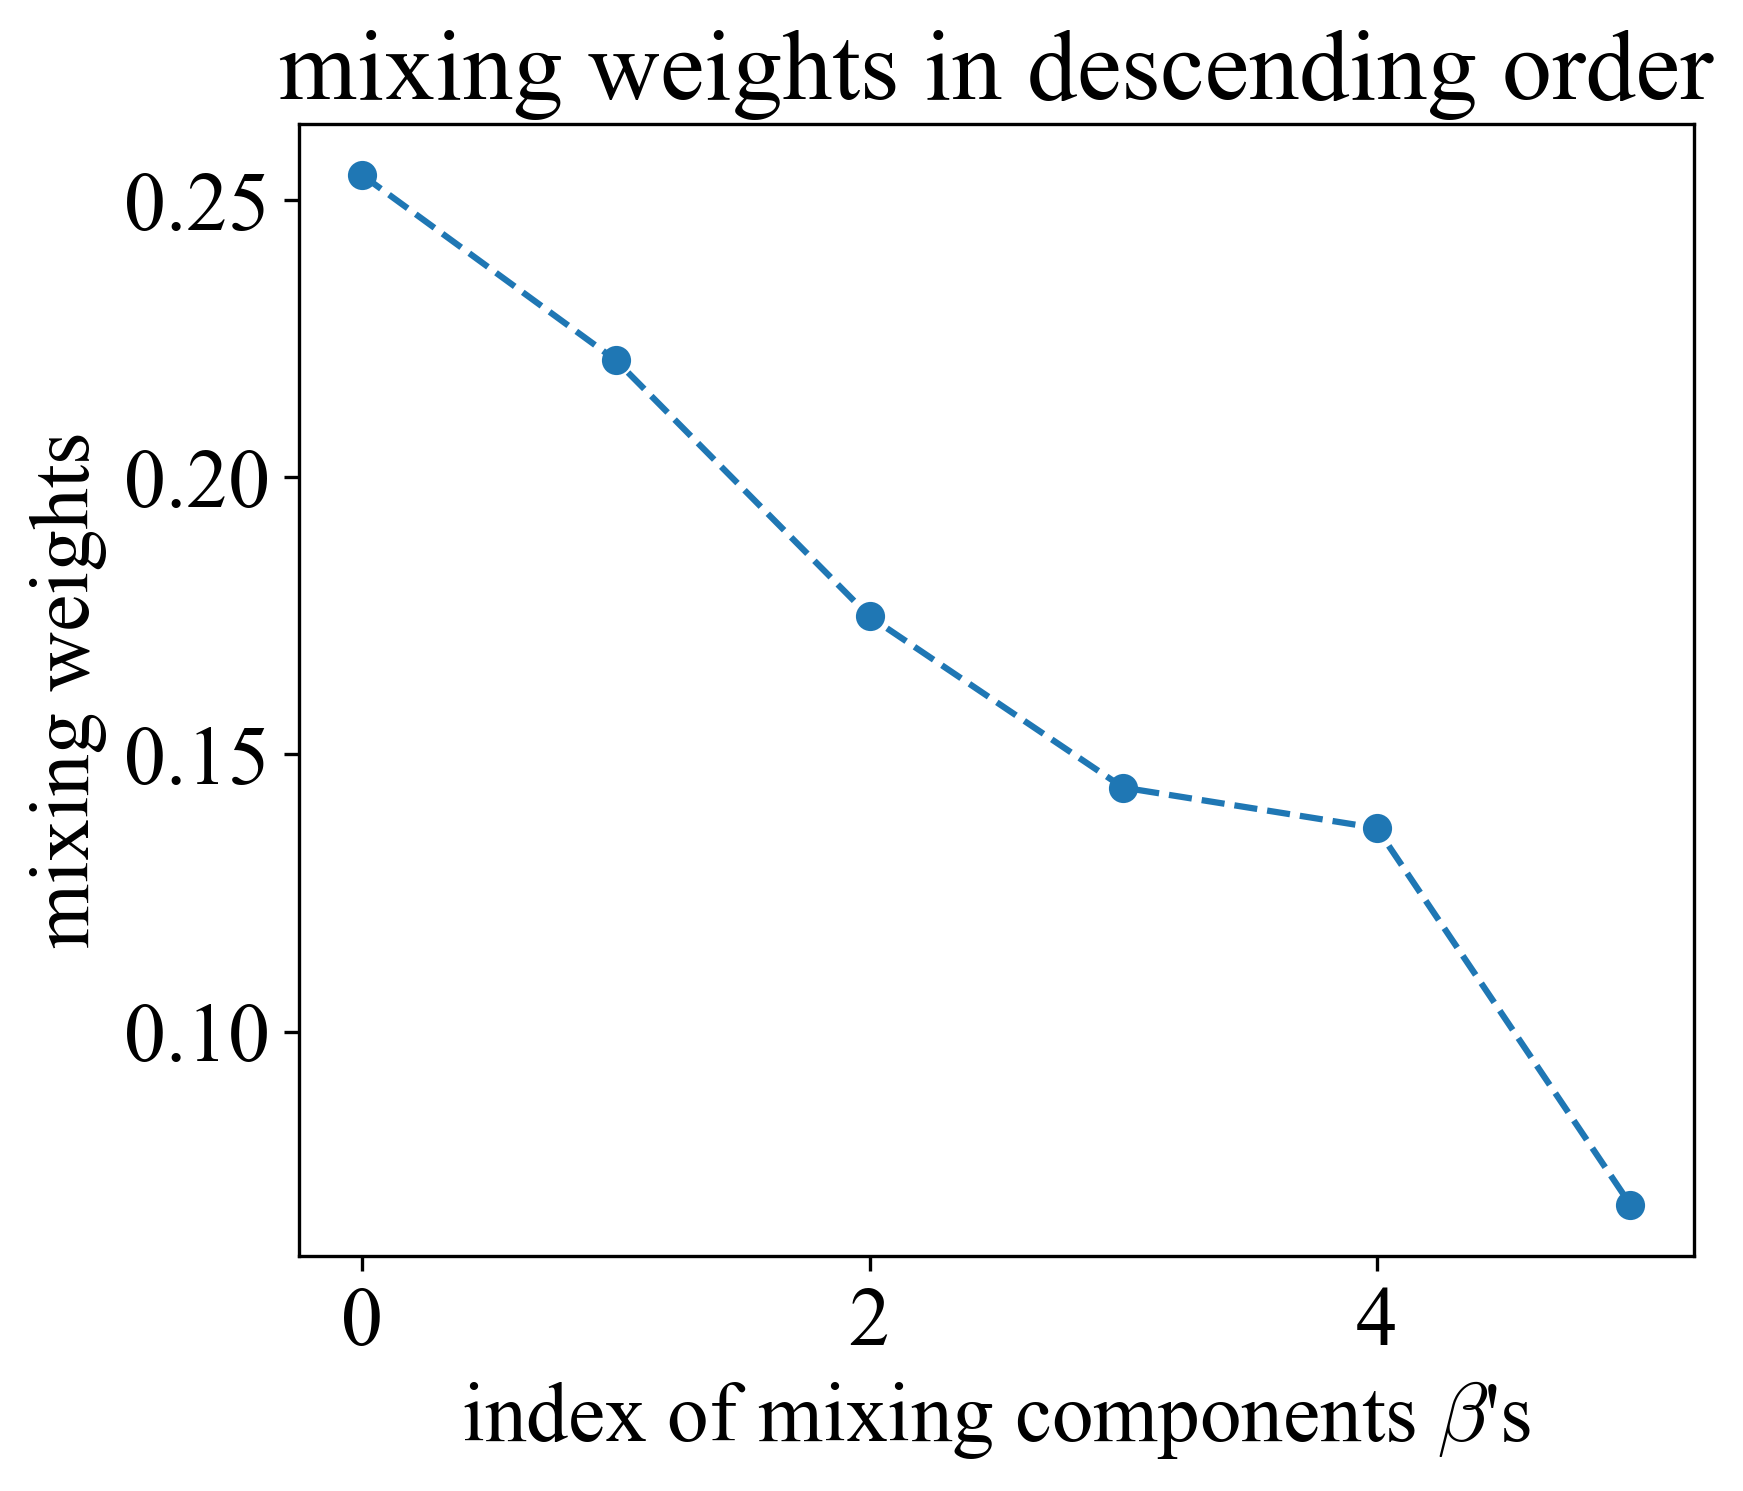
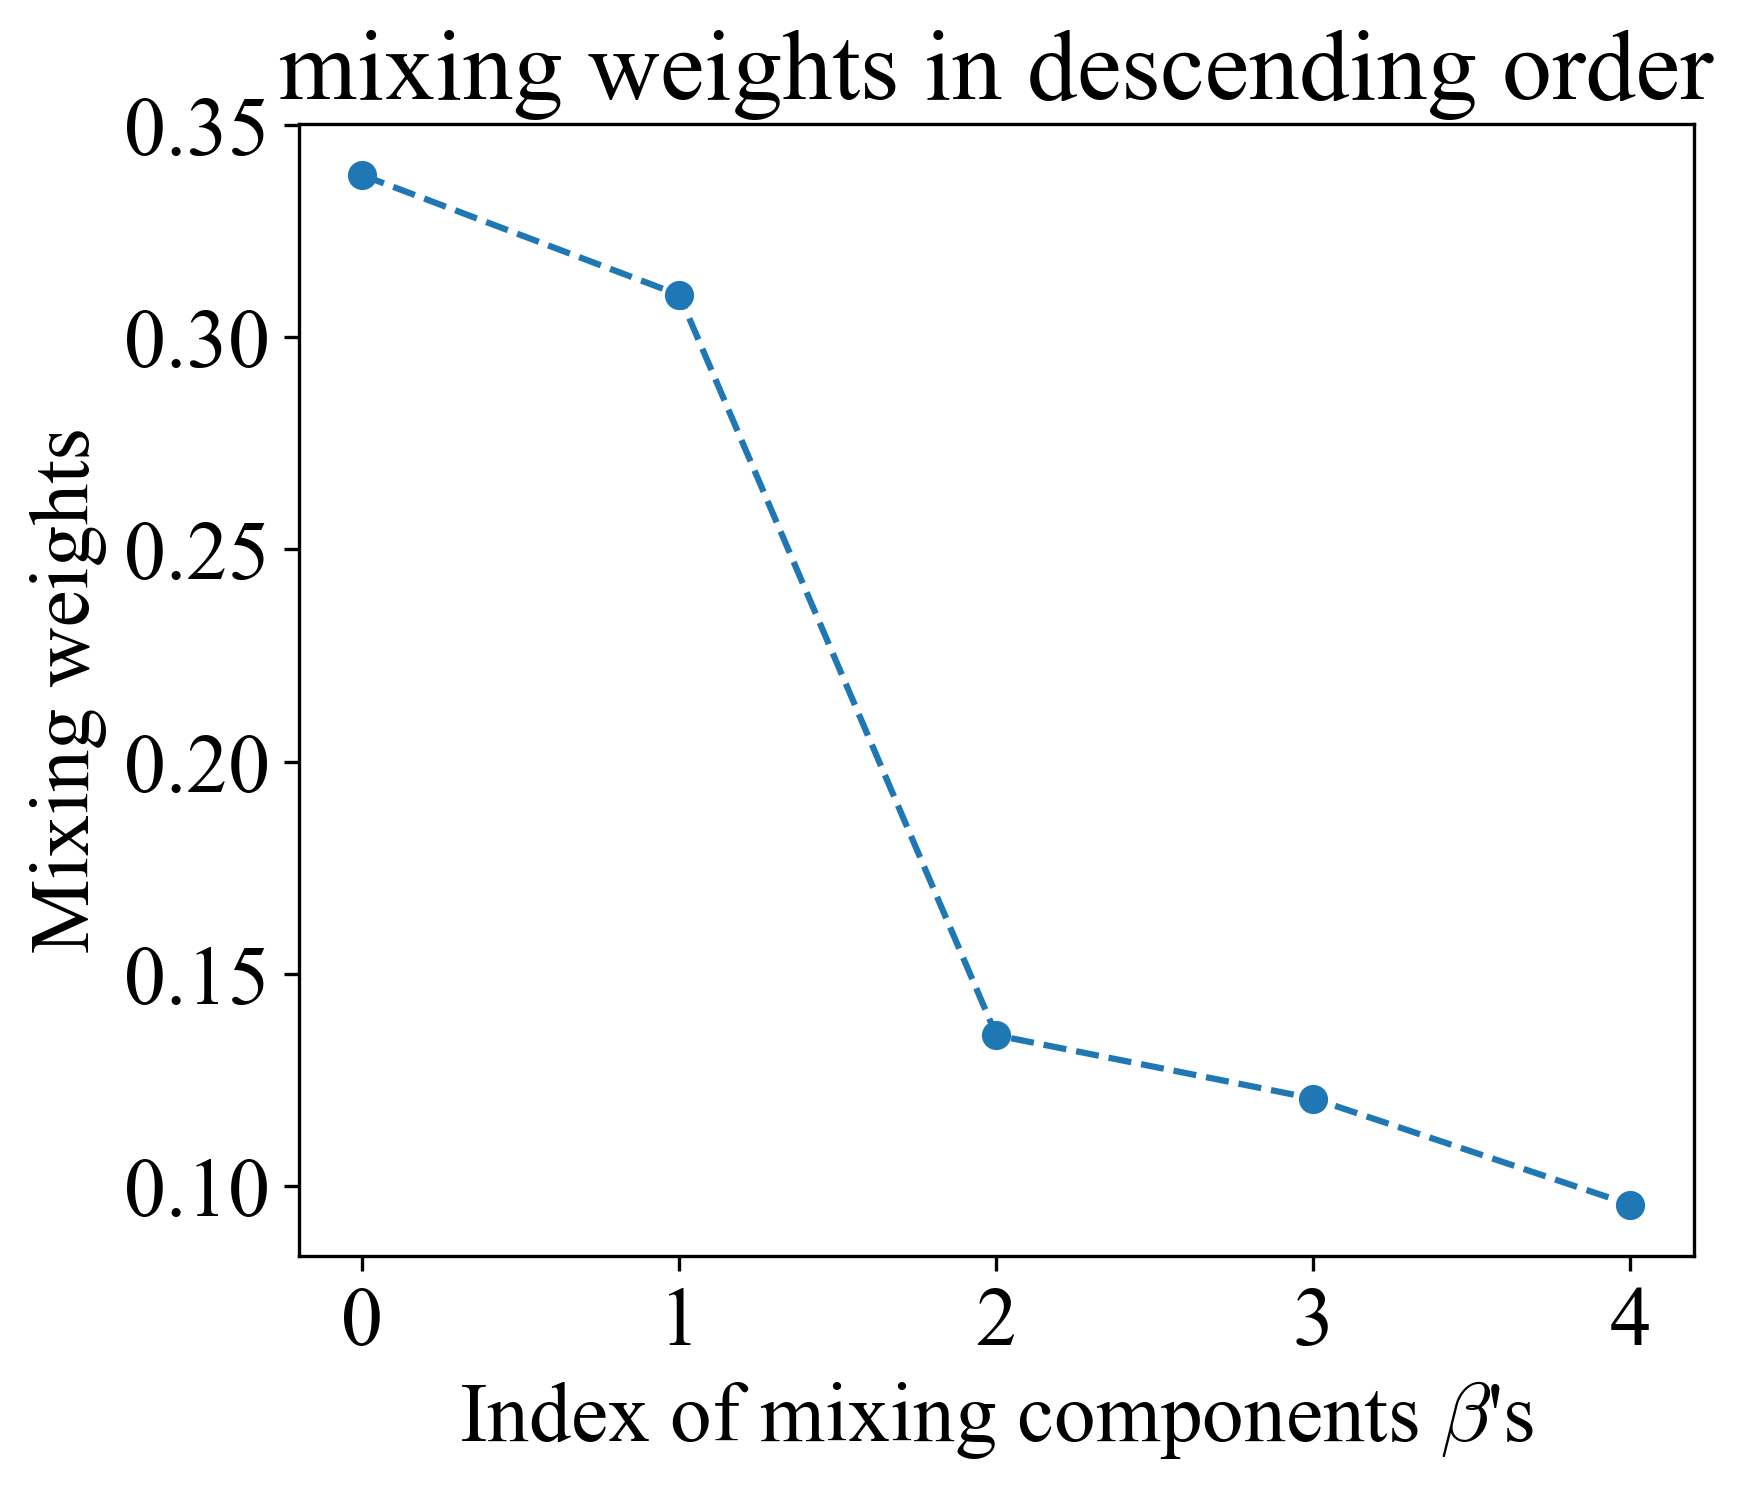
ridgeline plot
keep fixing format of sigma

diff --git a/scripts/run_simulation.py b/scripts/run_simulation.py
@@ -151,7 +151,7 @@ pd.DataFrame(y).to_csv('./../data/{}/y.csv'.format(fname), index = False, header
 pd.DataFrame(np.reshape(np.array(num_component), (1,1))).to_csv('./../data/{}/num_component.csv'.format(fname), index = False, header = False)
 pd.DataFrame(alpha_true).to_csv('./../data/{}/alpha_true.csv'.format(fname), index = False, header = False)
 pd.DataFrame(B_true).to_csv('./../data/{}/B_true.csv'.format(fname), index = False, header = False)
-pd.DataFrame(sigma_list).to_csv('./../data/{}/sigma_true.csv'.format(fname), index = False, header = False)
+pd.DataFrame(sigma_list[:len(alpha_true)]).to_csv('./../data/{}/sigma_true.csv'.format(fname), index = False, header = False)
 #-----------------------------------------------------------#    
 
 if run_cv == 'yes':
@@ -166,7 +166,7 @@ if run_cv == 'yes':
     pd.DataFrame(CV_result).to_csv("./../data/{}/CV_result.csv".format(fname), index = False)
     idx_min = np.argmin(CV_result[:,1])
     sigma_cv = cv_sigma_list[idx_min]
-    pd.DataFrame(np.array([sigma_cv])).to_csv("./../data/{}/sigma_CV.csv".format(fname), index = False, header = False)
+    
 else:
     #--------------------------------------------#
     #otherwise take sigma value from command line
@@ -197,15 +197,9 @@ f1, B1, alpha1, L_rec1, L_final1 = NPMLE_FW(X,y,iter,sigma,BL,BR,func)
 #-------------------NPMLE-CV ----------------#
 np.random.seed(626)
 f2, B2, alpha2, L_rec2, L_final2 = NPMLE_FW(X,y,iter,sigma_cv,BL,BR,func)
+pd.DataFrame(np.repeat(sigma_cv,len(alpha2))).\
+        to_csv("./../data/{}/sigma_CV.csv".format(fname), index = False, header = False)
 
-
-#-------------------Ridgeline plot ----------------#
-B2 = pd.read_csv('./../data/{}/B_NPMLE.csv'.format(fname), header = None).values
-alpha2 = pd.read_csv('./../data/{}/alpha_NPMLE.csv'.format(fname), header = None).values
-x_list_dense = np.arange(-1,3,0.5)
-
-df_fitted, df_true = density_ridgeline_plot(x_list_dense,b1,b2,b3,pi1,pi2,sigma,sigma_cv,B2,alpha2,fname,func = lin_func)  
-#------------------------------------------------------------#
 
  
 #-------------------------   Run EM    ----------------------#
@@ -216,8 +210,7 @@ os.system("Rscript " + "run_regmixEM.R " + fname + ' homo_error')
 #-------------------Read EM estimated results ----------------#
 B4 = pd.read_csv('./../data/{}/B_EM.csv'.format(fname), header = None).values
 alpha4 = pd.read_csv('./../data/{}/alpha_EM.csv'.format(fname), header = None).values
-sigma = pd.read_csv('./../data/{}/sigma_EM.csv'.format(fname), header = None).values
-sigma_array4 = np.repeat(sigma, num_component)
+sigma_array4 = pd.read_csv('./../data/{}/sigma_EM.csv'.format(fname), header = None).values.ravel()
 #------------------------------------------------------------# 
 
 

diff --git a/scripts/run_multiple_simulations.py b/scripts/run_multiple_simulations.py
@@ -34,7 +34,7 @@ elif exp_type == 'discrete_cv':
     os.system("python " + filename + params_ + '&')
     
 elif exp_type == 'hetero_discrete':
-    # re-run cross-validation
+    #  directly run with sigma selected by CV 
     params_ = ' '+'0.3' + ' '+'0.5' + ' '+'0.7' + ' ' + \
     '500' + ' ' + '1' + ' ' + '0.3'+ ' ' 
     os.system("python " + filename + params_ + '&')
@@ -58,7 +58,7 @@ elif exp_type == 'hetero_discrete_cv':
     os.system("python " + filename + params_ + '&')
         
 elif exp_type == 'poly_cv':
-    # re-run cross-validation
+    #  directly run with sigma selected by CV 
     params_ = ' '+'0.5' + ' ' + '500' + ' ' + '4' + ' ' + 'yes'+ ' ' 
     os.system("python " + filename + params_ + '&')
 
@@ -67,10 +67,9 @@ elif exp_type == 'poly':
    
     params_ = ' '+'0.5' + ' ' + '500' + ' ' + '4' + ' ' + '0.48'+ ' ' 
     os.system("python " + filename + params_ + '&')
-    
-    
+      
 elif exp_type == 'exp_cv':
-    # re-run cross-validation
+    #  directly run with sigma selected by CV 
     params_ = ' '+'0.5' + ' ' + '500' + ' ' + '5' + ' ' + 'yes'+ ' ' 
     os.system("python " + filename + params_ + '&')
     
@@ -80,7 +79,7 @@ elif exp_type == 'exp':
     os.system("python " + filename + params_ + '&')
     
 elif exp_type == 'sin_cv':
-    # re-run cross-validation
+    #  directly run with sigma selected by CV 
     params_ = ' '+'0.5' + ' ' + '500' + ' ' + '6' + ' ' + 'yes'+ ' ' 
     os.system("python " + filename + params_ + '&')
 

diff --git a/scripts/plotting_lib.py b/scripts/plotting_lib.py
@@ -163,8 +163,8 @@ def lin_plot(X,y,C,b1,b2,b3,pi1,pi2,sigma,B,alpha,L_rec,fname,threprob,func = li
     fig3 = plt.figure(figsize = (6,5))
     ax = plt.gca()
     ax.set_xlabel(r"Iteration")
-    ax.set_ylabel(r'$C_L$')
-    plt.plot(L_rec);
+    ax.set_ylabel(r'$\log C_L$')
+    plt.plot(np.log(np.array(L_rec)));
     
     #mixing weights
     fig4 = plt.figure(figsize = (6,5))
@@ -320,8 +320,8 @@ def poly_plot(X,y,C,b1,b2,b3,pi1,pi2,sigma,B,alpha,L_rec,fname,threprob,func):
     fig3 = plt.figure(figsize = (6,5))
     ax = plt.gca()
     ax.set_xlabel(r"Iteration")
-    ax.set_ylabel(r'$C_L$')
-    plt.plot(L_rec);
+    ax.set_ylabel(r'$\log C_L$')
+    plt.plot(np.log(np.array(L_rec)));
     
     
     #mixing weights
@@ -478,8 +478,8 @@ def exp_plot(X,y,C,b1,b2,b3,pi1,pi2,sigma,B,alpha,L_rec,fname,threprob,func):
     fig3 = plt.figure(figsize = (6,5))
     ax = plt.gca()
     ax.set_xlabel(r"Iteration")
-    ax.set_ylabel(r'$C_L$')
-    plt.plot(L_rec);
+    ax.set_ylabel(r'$\log C_L$')
+    plt.plot(np.log(np.array(L_rec)));
      
     
     fig4 = plt.figure(figsize = (6,5))
@@ -635,8 +635,8 @@ def sin_plot(X,y,C,b1,b2,b3,pi1,pi2,sigma,B,alpha,L_rec,fname,threprob,func):
     fig3 = plt.figure(figsize = (6,5))
     ax = plt.gca()
     ax.set_xlabel(r"Iteration")
-    ax.set_ylabel(r'$C_L$')
-    plt.plot(L_rec);
+    ax.set_ylabel(r'$\log C_L$')
+    plt.plot(np.log(np.array(L_rec)));
     
     
     fig4 = plt.figure(figsize = (6,5))

diff --git a/scripts/run_heteroerror_simulation.py b/scripts/run_heteroerror_simulation.py
@@ -97,7 +97,7 @@ else:
 iter = 100 # iterations of NPMLE_FW
 
 
-fname = 'hetero_' + str(b1[0]) + '_'+ str(b1[1])+'_'+ str(b2[0]) \
+fname = 'hetero_' + func.__name__[:-4] + str(b1[0]) + '_'+ str(b1[1])+'_'+ str(b2[0]) \
 +'_' +str(b2[1])+'_'+str(int(100*pi1)) +'percent'
 fname = fname.replace('.','dot')
 
@@ -180,8 +180,8 @@ os.system("Rscript " + "run_regmixEM.R " + fname + ' hetero_error')
 #-------------------Read EM estimated results ----------------#
 B4 = pd.read_csv('./../data/{}/B_EM.csv'.format(fname), header = None).values
 alpha4 = pd.read_csv('./../data/{}/alpha_EM.csv'.format(fname), header = None).values
-sigma = pd.read_csv('./../data/{}/sigma_EM.csv'.format(fname), header = None).values
-sigma_array4 = sigma.ravel()
+# Note: different from homoerror case, sigma is an array here
+sigma = pd.read_csv('./../data/{}/sigma_EM.csv'.format(fname), header = None).values.ravel()
 #------------------------------------------------------------# 
 
 

diff --git a/scripts/simulation_lib.py b/scripts/simulation_lib.py
@@ -59,6 +59,8 @@ def generate_test_data(n,iter, b1, b2, b3,pi1,pi2,sigma_list,func=lin_func):
             C[i] = 3
     return X,y,C
 
+
+
 def generate_continuous_test_data(n,iter, meanb1,covb1,meanb2,covb2, pi1, sigma,df_ = 3,func = lin_func):
     '''
     generate testing data with respect to continuous G^*
@@ -96,6 +98,7 @@ def generate_continuous_test_data(n,iter, meanb1,covb1,meanb2,covb2, pi1, sigma,
         # print("b",b)
         y[i] = func(X[i],b) + np.random.normal(0,sigma)
     return X,y
+
 
 
 def test(X,y,C, n,iter, b1, b2, b3,pi1,pi2,sigma_est,BL,BR,fname,func=lin_func):

diff --git a/scripts/alg1_lib.py b/scripts/alg1_lib.py
@@ -159,7 +159,8 @@ def NPMLE_FW(X,y,iter,sigma,BL,BR, func = lin_func):
         
         # calculate the "curvature constant"
         curvature_temp = np.sum(np.log(1/f)) -  np.sum(np.log(1/f_old)) + np.dot(f.T,1/f_old) -np.dot(f_old.T,1/f_old)
-        curvature_rec.append(curvature_temp * (t+2)**2/2)
+        curvature_rec.append(float(curvature_temp) * (t+2)**2/2)
+        print("C_L", t, ":",curvature_rec[-1])
         
         #prune P by deleting columns corresponding to very small alpha
         P_prune = np.zeros((n,1))
